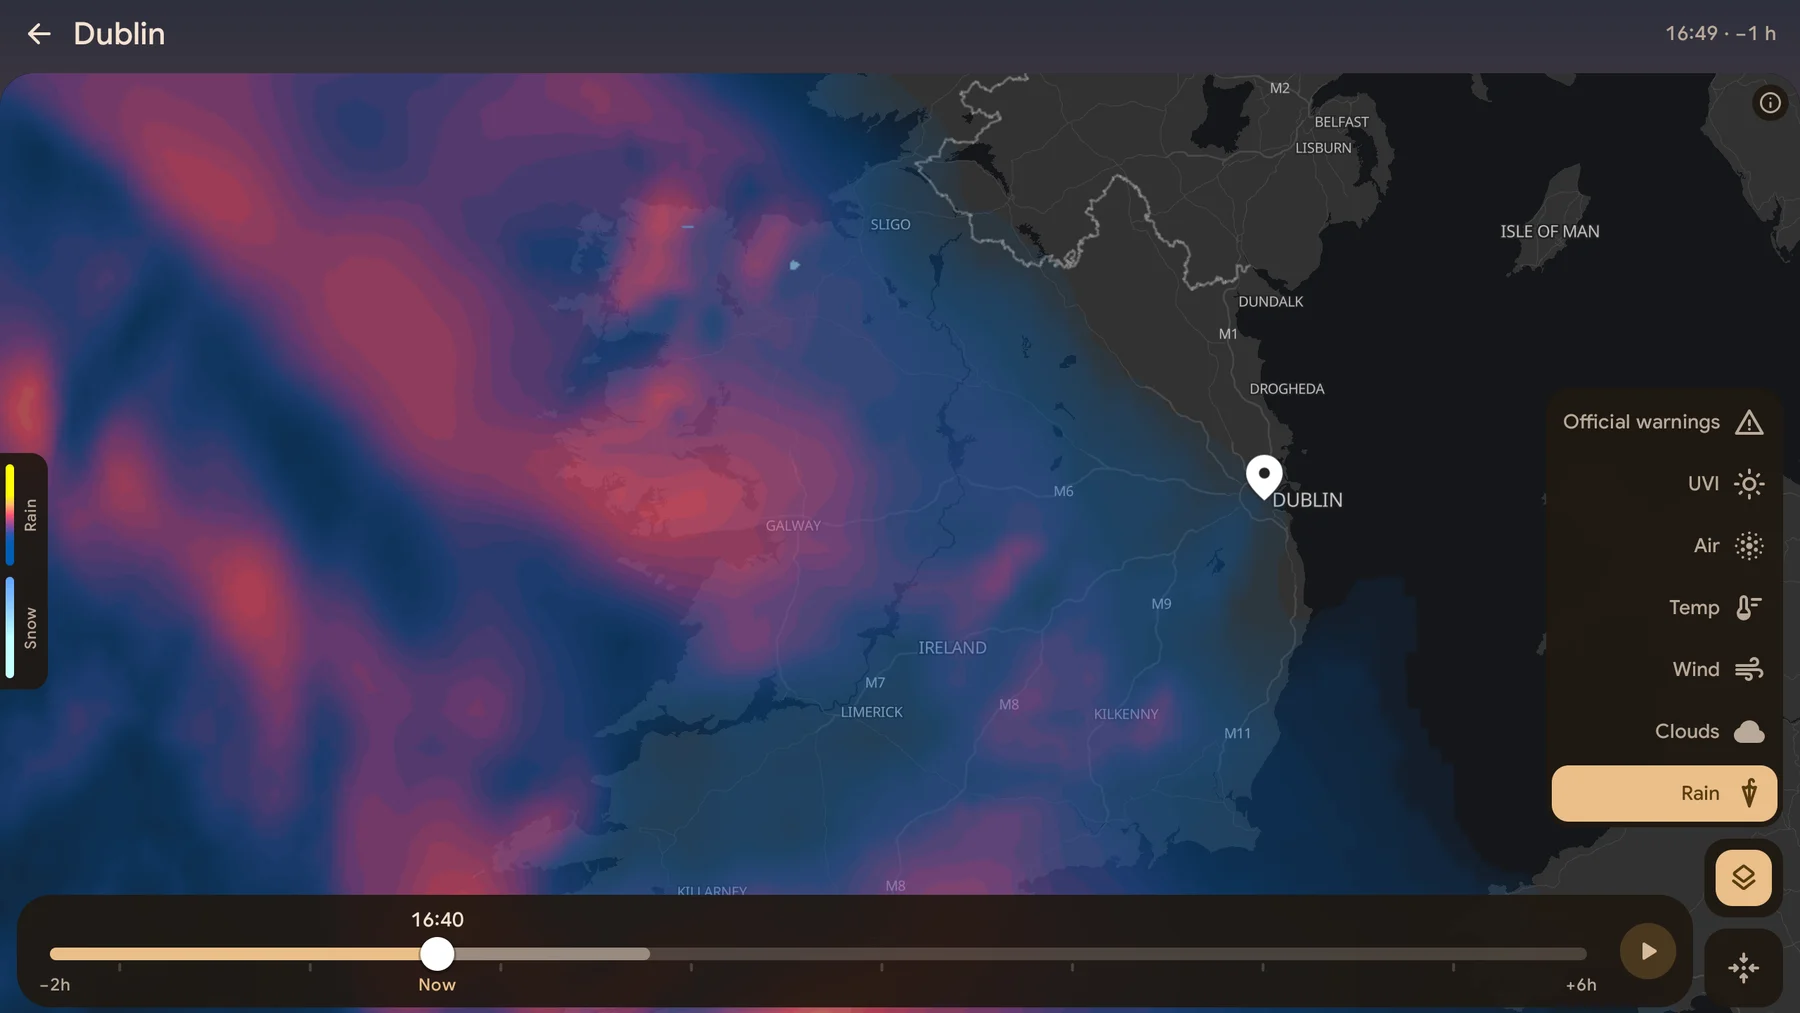
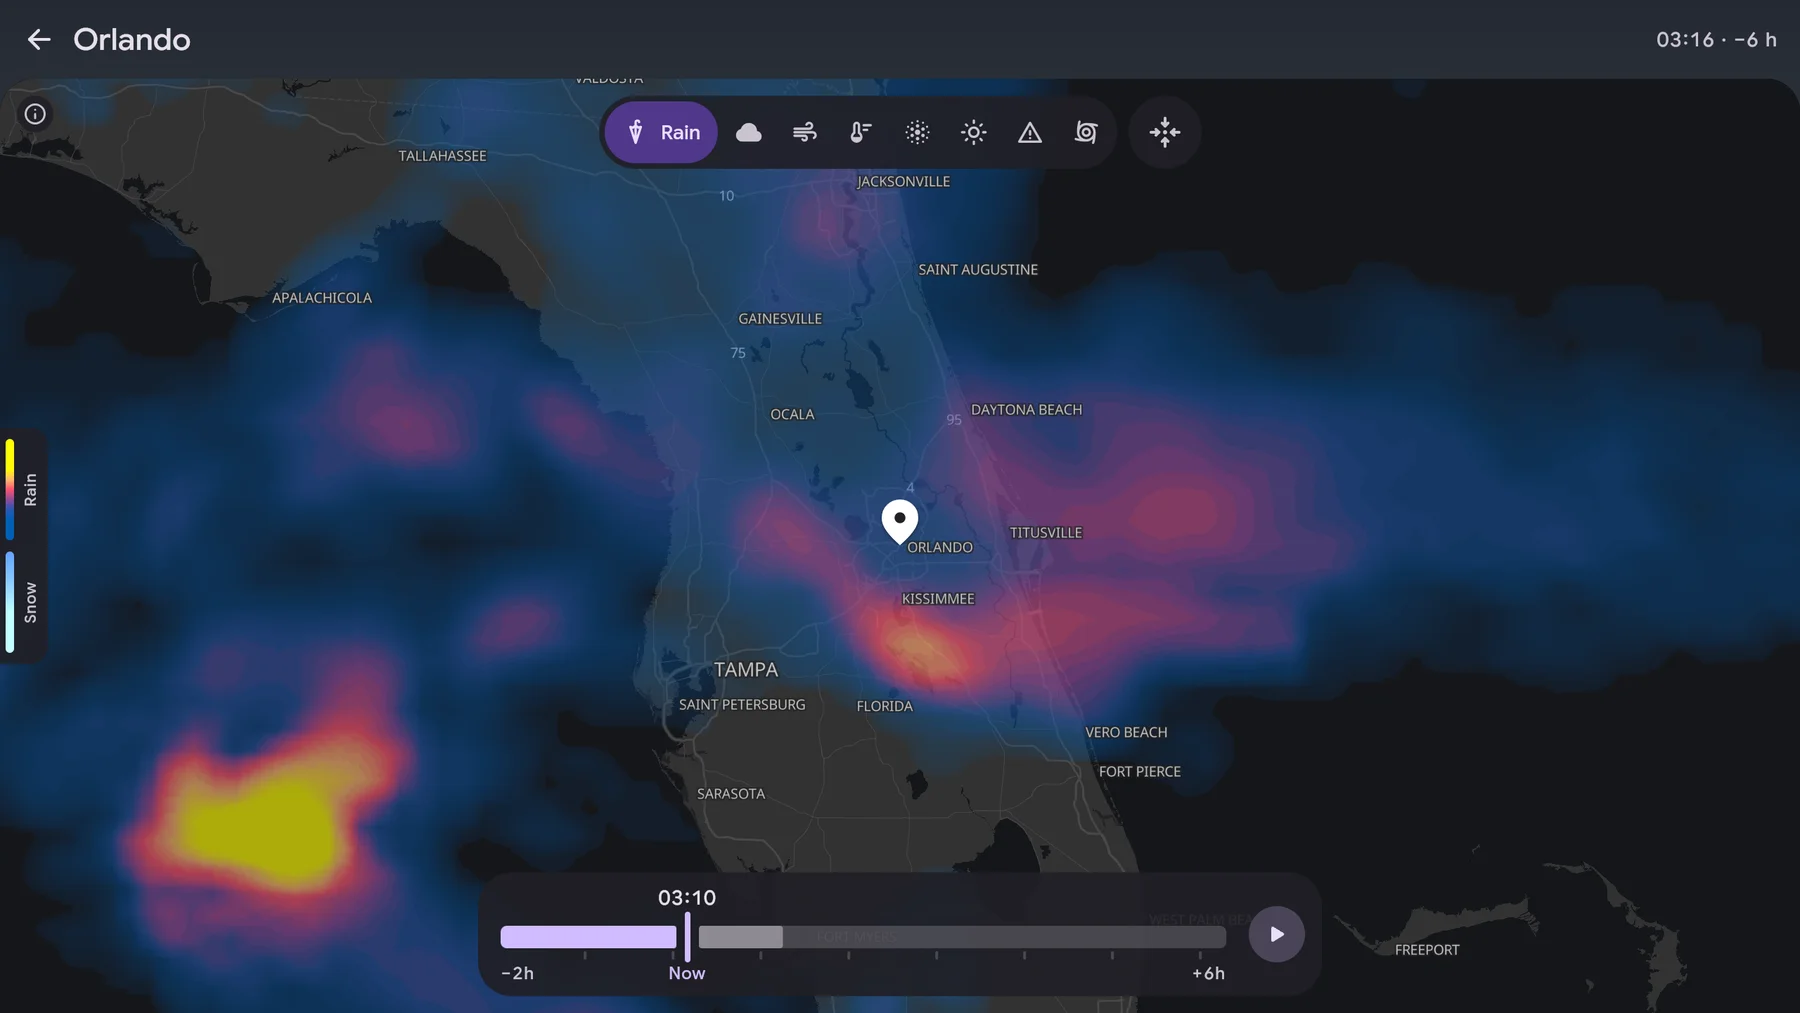
Show the map's layers along the top in the tablet pictures
Both tablet pictures are the new Orlando ones, in place of the old map with its Layers button.

diff --git a/index.html b/index.html
@@ -134,7 +134,7 @@
       <h2>Rain, and where it's going</h2>
       <p class="muted">A strip under the sky shows the rain in the next hours. The map plays it forward. It also shows clouds, wind, temperature, air quality, UV, warnings, and tropical storms.</p>
     </div>
-    <img src="shots/tablet-map.webp" width="1800" height="1013" alt="The rain map over Ireland with its layers and timeline">
+    <img src="shots/tablet-map.webp" width="1800" height="1013" alt="The rain map over Florida, with its layers along the top and its timeline below">
   </div>
 </section>
 
